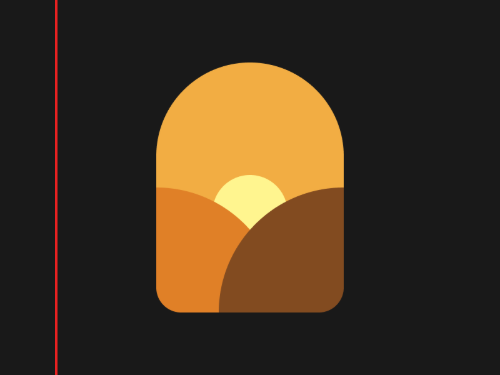
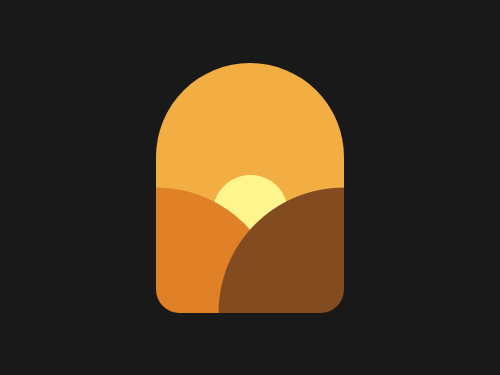
Score: 617.39 (100.00% match) - CSSHub

diff --git a/README.md b/README.md
@@ -61,7 +61,7 @@ _[My CSS Battle Profile](https://cssbattle.dev/player/sh33r0)_
 <li><a href="./Battles/Battle%20%234/%2325.%20Blossom/">#25. Blossom</a></li>
 <li><a href="./Battles/Battle%20%234/%2326.%20Smiley/">#26. Smiley</a></li>
 <li><a href="./Battles/Battle%20%234/%2327.%20Lock%20Up/">#27. Lock Up</a></li>
-<li><a href="./Battles/Battle%20%234/%2328.%20Cups%20%26%20Balls/">#28. Cups &amp;amp;amp;amp;amp;amp;amp;amp;amp;amp;amp;amp;amp;amp;amp;amp;amp;amp;amp;amp;amp;amp;amp;amp;amp;amp;amp;amp;amp;amp;amp;amp;amp;amp;amp;amp;amp;amp;amp;amp;amp;amp;amp;amp;amp;amp;amp;amp;amp;amp;amp;amp;amp;amp;amp;amp;amp;amp;amp;amp;amp;amp;amp;amp;amp;amp;amp;amp;amp;amp;amp;amp;amp;amp;amp;amp;amp;amp;amp;amp;amp;amp;amp;amp;amp;amp;amp;amp;amp;amp;amp;amp;amp;amp;amp;amp;amp;amp;amp;amp;amp;amp;amp;amp;amp;amp;amp;amp;amp;amp;amp;amp;amp;amp;amp;amp;amp;amp;amp;amp;amp;amp;amp;amp;amp;amp;amp;amp;amp;amp;amp;amp;amp;amp;amp;amp;amp;amp;amp;amp;amp;amp;amp;amp;amp;amp;amp;amp;amp;amp; Balls</a></li>
+<li><a href="./Battles/Battle%20%234/%2328.%20Cups%20%26%20Balls/">#28. Cups &amp;amp;amp;amp;amp;amp;amp;amp;amp;amp;amp;amp;amp;amp;amp;amp;amp;amp;amp;amp;amp;amp;amp;amp;amp;amp;amp;amp;amp;amp;amp;amp;amp;amp;amp;amp;amp;amp;amp;amp;amp;amp;amp;amp;amp;amp;amp;amp;amp;amp;amp;amp;amp;amp;amp;amp;amp;amp;amp;amp;amp;amp;amp;amp;amp;amp;amp;amp;amp;amp;amp;amp;amp;amp;amp;amp;amp;amp;amp;amp;amp;amp;amp;amp;amp;amp;amp;amp;amp;amp;amp;amp;amp;amp;amp;amp;amp;amp;amp;amp;amp;amp;amp;amp;amp;amp;amp;amp;amp;amp;amp;amp;amp;amp;amp;amp;amp;amp;amp;amp;amp;amp;amp;amp;amp;amp;amp;amp;amp;amp;amp;amp;amp;amp;amp;amp;amp;amp;amp;amp;amp;amp;amp;amp;amp;amp;amp;amp;amp;amp;amp; Balls</a></li>
 </ul>
 </details>
 </li>

diff --git a/Battles/Battle #12/#62. Sunset/README.md b/Battles/Battle #12/#62. Sunset/README.md
@@ -22,5 +22,5 @@ Challenge: <https://cssbattle.dev/play/62>
 ## Code
 
 ```html
-<p><p a><p a b><p c><style>*{background:#F2AD43}p{position:fixed;background:#FFF58F;height:60;width:60;margin:132 162;border-radius:9in}[a]{background:#E08027;scale:3.33;margin:212 87}[b]{background:#824B20;left:158}[c]{border-radius:1in 1in 25px 25px;height:200;width:150;margin:42 117;background:#0000;box-shadow:0 0 0 200px#191919
+<p><p a><p a b><p c><style>*{background:#F2AD43}p{position:fixed;background:#FFF58F;height:60;width:60;margin:132 162;border-radius:9in}[a]{background:#E08027;scale:3.33;margin:212 87}[b]{background:#824B20;left:158}[c]{border-radius:1in 1in 6vw 6vw;height:200;width:150;margin:42 117;background:#0000;box-shadow:0 0 0 3in#191919
 ```
